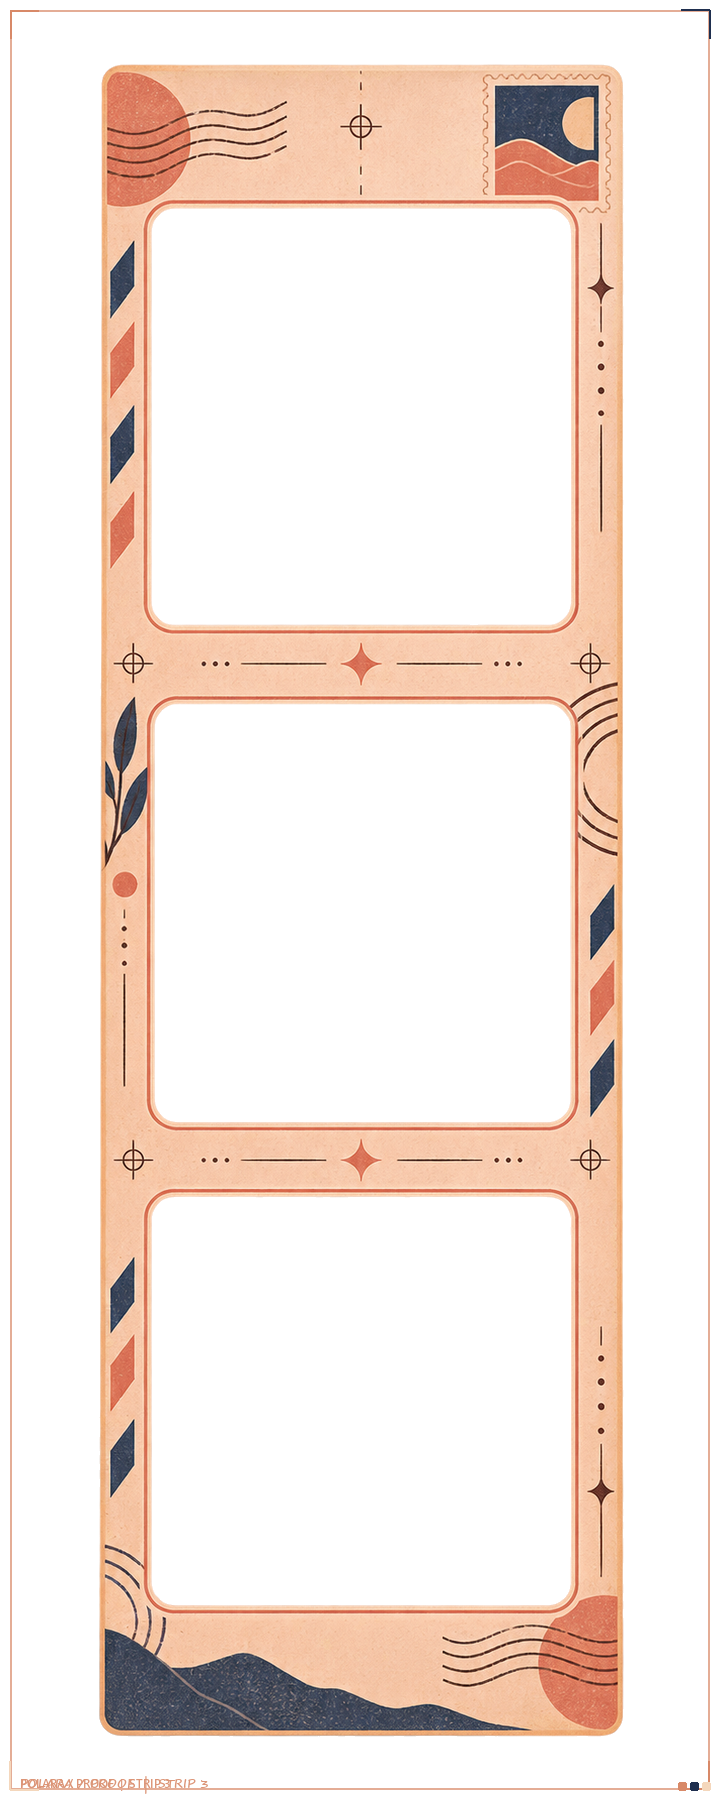
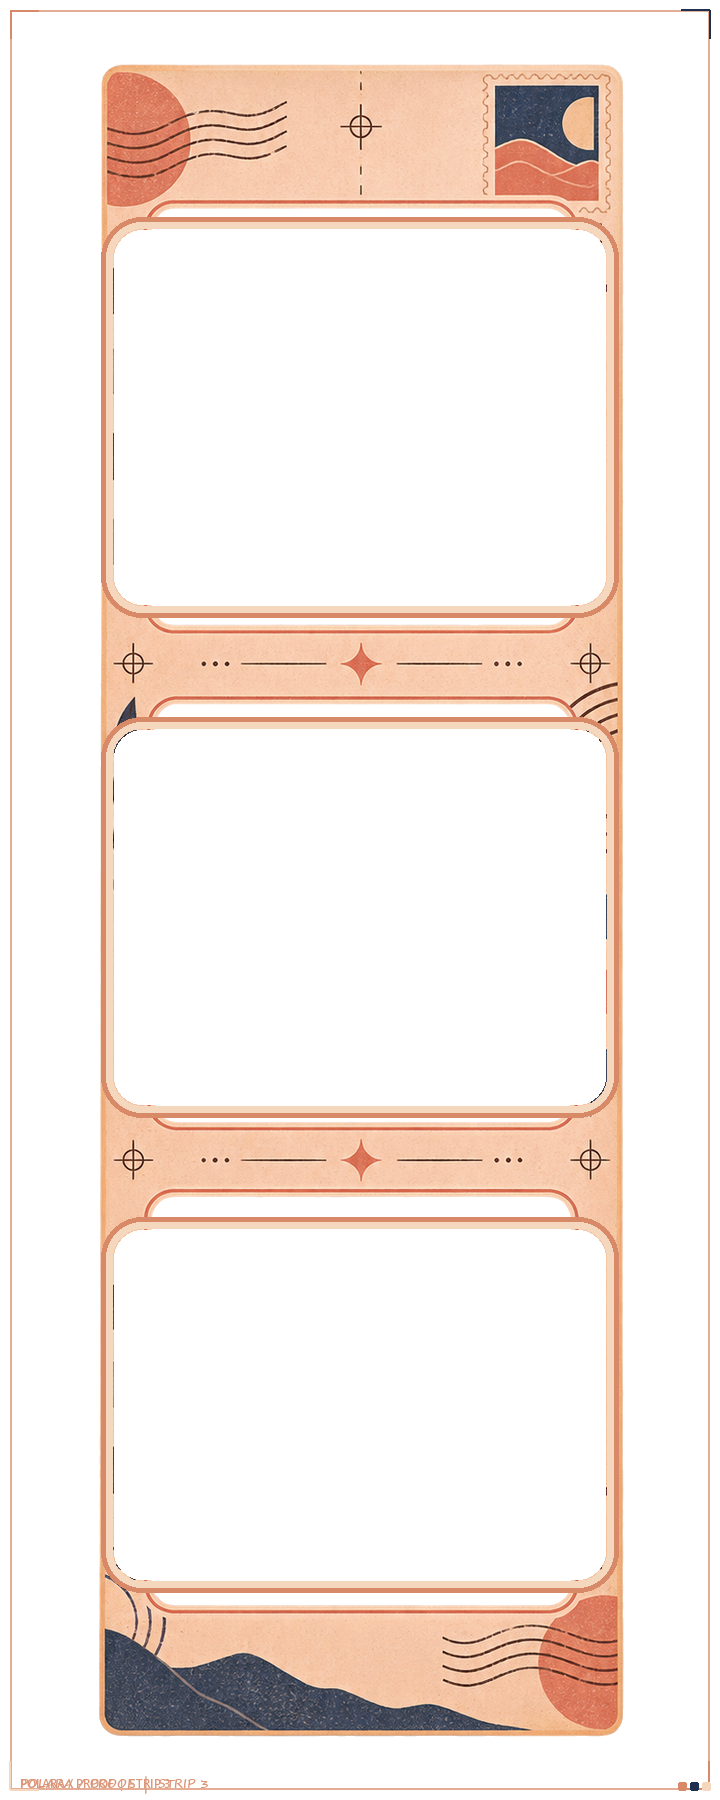
fix(frames): Polara v0.45.2 - expand photo-first Strip windows

Changed region(s): [[0.1222, 0.6533, 0.8861, 0.9022], [0.1222, 0.3733, 0.8861, 0.6222], [0.1222, 0.0933, 0.8861, 0.3422]]

diff --git a/src/modules/templates/frame-overlays.generated.js b/src/modules/templates/frame-overlays.generated.js
@@ -394,25 +394,25 @@ export const frameOverlayTemplates = [
     "maskType": "rectangles",
     "photoWindows": [
       {
-        "x": 159,
+        "x": 120,
         "y": 255,
-        "width": 402,
+        "width": 480,
         "height": 384
       },
       {
-        "x": 159,
+        "x": 120,
         "y": 702,
-        "width": 402,
+        "width": 480,
         "height": 384
       },
       {
-        "x": 159,
+        "x": 120,
         "y": 1149,
-        "width": 402,
+        "width": 480,
         "height": 384
       }
     ],
-    "assetVersion": "frame-overlay-v5",
+    "assetVersion": "frame-overlay-v6",
     "slotBackground": "#1c191b",
     "supportsDynamicText": false,
     "metadataZones": {
@@ -989,28 +989,28 @@ export const frameOverlayTemplates = [
     "maskType": "rounded-rectangles",
     "photoWindows": [
       {
-        "x": 152,
+        "x": 114,
         "y": 230,
-        "width": 419,
+        "width": 492,
         "height": 375,
         "radius": 28
       },
       {
-        "x": 155,
+        "x": 114,
         "y": 730,
-        "width": 415,
+        "width": 492,
         "height": 375,
         "radius": 28
       },
       {
-        "x": 152,
+        "x": 114,
         "y": 1230,
-        "width": 419,
+        "width": 492,
         "height": 350,
         "radius": 28
       }
     ],
-    "assetVersion": "frame-overlay-v5",
+    "assetVersion": "frame-overlay-v6",
     "slotBackground": "#f4d7bc",
     "supportsDynamicText": false,
     "metadataZones": {

diff --git a/scripts/remaster-photo-first-strips.py b/scripts/remaster-photo-first-strips.py
@@ -1,0 +1,173 @@
+#!/usr/bin/env python3
+"""Remaster the two airy Strip overlays with wider photo-first windows."""
+
+from __future__ import annotations
+
+import hashlib
+import json
+from copy import deepcopy
+from pathlib import Path
+
+from PIL import Image, ImageChops, ImageColor, ImageDraw, PngImagePlugin
+
+
+ROOT = Path(__file__).resolve().parents[1]
+MANIFEST_PATH = ROOT / "assets" / "frames" / "frame-overlay-manifest.json"
+TARGETS = {
+    "vintage-film-lofi.strip": {
+        "outline": "#f7eee5",
+        "shadow": "#342824",
+        "radius": 34,
+        "outer_width": 12,
+        "inner_width": 5,
+    },
+    "postcard-club.strip": {
+        "outline": "#d88968",
+        "shadow": "#f4d7bc",
+        "radius": 28,
+        "outer_width": 12,
+        "inner_width": 5,
+    },
+}
+
+
+def project_path(relative_path: str) -> Path:
+    path = (ROOT / relative_path).resolve()
+    path.relative_to(ROOT)
+    return path
+
+
+def rgba(hex_color: str, alpha: int = 255) -> tuple[int, int, int, int]:
+    return (*ImageColor.getrgb(hex_color), alpha)
+
+
+def clear_photo_windows(image: Image.Image, frame: dict[str, object]) -> None:
+    mask = Image.new("L", image.size, 0)
+    draw = ImageDraw.Draw(mask)
+    for window in frame["photoWindows"]:
+        x = int(window["x"])
+        y = int(window["y"])
+        width = int(window["width"])
+        height = int(window["height"])
+        radius = int(window.get("radius", 0))
+        box = (x, y, x + width - 1, y + height - 1)
+        if radius:
+            draw.rounded_rectangle(box, radius=radius, fill=255)
+        else:
+            draw.rectangle(box, fill=255)
+    image.putalpha(ImageChops.subtract(image.getchannel("A"), mask))
+
+
+def redraw_photo_window_frames(image: Image.Image, frame: dict[str, object], style: dict[str, object]) -> None:
+    draw = ImageDraw.Draw(image)
+    radius = int(style["radius"])
+    outer_width = int(style["outer_width"])
+    inner_width = int(style["inner_width"])
+    border_margin = 13
+    for window in frame["photoWindows"]:
+        x = int(window["x"])
+        y = int(window["y"])
+        width = int(window["width"])
+        height = int(window["height"])
+        # Keep every painted border outside the manifest window. The overlay
+        # verifier treats the photo window as a fully transparent mask.
+        box = (
+            x - border_margin,
+            y - border_margin,
+            x + width - 1 + border_margin,
+            y + height - 1 + border_margin,
+        )
+        if frame["id"] == "postcard-club.strip":
+            draw.rounded_rectangle(box, radius=radius + border_margin, outline=rgba(str(style["shadow"])), width=outer_width)
+            draw.rounded_rectangle(box, radius=radius + border_margin, outline=rgba(str(style["outline"])), width=inner_width)
+        else:
+            draw.rounded_rectangle(box, radius=radius + border_margin, outline=rgba(str(style["shadow"])), width=outer_width)
+            draw.rounded_rectangle(box, radius=radius + border_margin, outline=rgba(str(style["outline"])), width=inner_width)
+
+
+def save_png(image: Image.Image, path: Path, source_info: dict[str, object]) -> bytes:
+    metadata = PngImagePlugin.PngInfo()
+    for key, value in source_info.items():
+        if key != "polara:quality-profile" and isinstance(value, str):
+            metadata.add_text(key, value)
+    metadata.add_text("polara:quality-profile", "polara-proof-edge-v2")
+    image.save(path, format="PNG", optimize=True, compress_level=9, pnginfo=metadata)
+    return path.read_bytes()
+
+
+def scaled_frame(frame: dict[str, object], scale: int) -> dict[str, object]:
+    result = deepcopy(frame)
+    result["photoWindows"] = [
+        {
+            **window,
+            "x": int(window["x"]) * scale,
+            "y": int(window["y"]) * scale,
+            "width": int(window["width"]) * scale,
+            "height": int(window["height"]) * scale,
+            **({"radius": int(window["radius"]) * scale} if "radius" in window else {}),
+        }
+        for window in frame["photoWindows"]
+    ]
+    result["id"] = frame["id"]
+    return result
+
+
+def scaled_style(style: dict[str, object], scale: int) -> dict[str, object]:
+    return {
+        **style,
+        "radius": int(style["radius"]) * scale,
+        "outer_width": int(style["outer_width"]) * scale,
+        "inner_width": int(style["inner_width"]) * scale,
+    }
+
+
+def main() -> None:
+    manifest = json.loads(MANIFEST_PATH.read_text(encoding="utf-8"))
+    frames = {frame["id"]: frame for frame in manifest["frames"]}
+    missing = sorted(set(TARGETS) - set(frames))
+    if missing:
+        raise RuntimeError(f"Target frame tidak ditemukan: {', '.join(missing)}")
+
+    for frame_id, style in TARGETS.items():
+        frame = frames[frame_id]
+        overlay_path = project_path(frame["overlaySrc"])
+        with Image.open(overlay_path) as source:
+            image = source.convert("RGBA")
+            source_info = dict(source.info)
+        clear_photo_windows(image, frame)
+        redraw_photo_window_frames(image, frame, style)
+        # The drawing API centers strokes on the path. Clear the canonical
+        # interior once more so no border pixel enters the photo mask.
+        clear_photo_windows(image, frame)
+        image.putdata([
+            (0, 0, 0, 0) if alpha == 0 else (red, green, blue, alpha)
+            for red, green, blue, alpha in image.get_flattened_data()
+        ])
+        payload = save_png(image, overlay_path, source_info)
+        frame["sha256"] = hashlib.sha256(payload).hexdigest()
+        frame["byteSize"] = len(payload)
+        frame["assetVersion"] = "frame-overlay-v5"
+        frame["qualityProfile"] = "polara-proof-edge-v2"
+
+        master_src = frame.get("masterSrc")
+        if master_src:
+            master_path = project_path(master_src)
+            master_frame = scaled_frame(frame, 2)
+            with Image.open(master_path) as source:
+                master_image = source.convert("RGBA")
+                master_info = dict(source.info)
+            clear_photo_windows(master_image, master_frame)
+            redraw_photo_window_frames(master_image, master_frame, scaled_style(style, 2))
+            clear_photo_windows(master_image, master_frame)
+            master_image.putdata([
+                (0, 0, 0, 0) if alpha == 0 else (red, green, blue, alpha)
+                for red, green, blue, alpha in master_image.get_flattened_data()
+            ])
+            save_png(master_image, master_path, master_info)
+
+    MANIFEST_PATH.write_text(json.dumps(manifest, ensure_ascii=False, indent=2) + "\n", encoding="utf-8")
+    print(f"[photo-first-strip] remastered {len(TARGETS)} Strip overlays")
+
+
+if __name__ == "__main__":
+    main()

diff --git a/scripts/verify-frame-overlays.py b/scripts/verify-frame-overlays.py
@@ -32,9 +32,9 @@ EXPECTED_GEOMETRY: dict[str, tuple[tuple[int, int], list[dict[str, int]]]] = {
     "vintage-film-lofi.strip": (
         (720, 1800),
         [
-            {"x": 159, "y": 255, "width": 402, "height": 384},
-            {"x": 159, "y": 702, "width": 402, "height": 384},
-            {"x": 159, "y": 1149, "width": 402, "height": 384},
+            {"x": 120, "y": 255, "width": 480, "height": 384},
+            {"x": 120, "y": 702, "width": 480, "height": 384},
+            {"x": 120, "y": 1149, "width": 480, "height": 384},
         ],
     ),
     "seoul-snap-y2k.single": (
@@ -116,9 +116,9 @@ EXPECTED_GEOMETRY: dict[str, tuple[tuple[int, int], list[dict[str, int]]]] = {
     "postcard-club.strip": (
         (720, 1800),
         [
-            {"x": 152, "y": 230, "width": 419, "height": 375, "radius": 28},
-            {"x": 155, "y": 730, "width": 415, "height": 375, "radius": 28},
-            {"x": 152, "y": 1230, "width": 419, "height": 350, "radius": 28},
+            {"x": 114, "y": 230, "width": 492, "height": 375, "radius": 28},
+            {"x": 114, "y": 730, "width": 492, "height": 375, "radius": 28},
+            {"x": 114, "y": 1230, "width": 492, "height": 350, "radius": 28},
         ],
     ),
     "postcard-club-ink.single": (

diff --git a/CHANGELOG.md b/CHANGELOG.md
@@ -5,6 +5,15 @@ Lihat aturan lengkap di `../../KONVENSI-VERSI.md`.
 
 ## [Unreleased]
 
+## [0.45.2] - 2026-09-29
+
+### Changed
+- Vintage Film Lo-Fi dan Postcard Club Strip memakai jendela foto yang lebih lebar agar hasil tetap terasa penuh ketika pengguna tidak menambahkan dekorasi.
+- Border jendela dan thumbnail diregenerasi dari geometry manifest yang sama, dengan asset version v6 untuk dua Strip yang berubah agar cache browser tidak menampilkan overlay lama.
+
+### Validation
+- Exact export tetap Single 1080×1350 dan Strip 720×1800. Dua keluarga yang diremaster sekarang memiliki area foto minimum sekitar 40% dari canvas Strip.
+
 ## [0.45.1] - 2026-09-29
 
 ### Fixed
